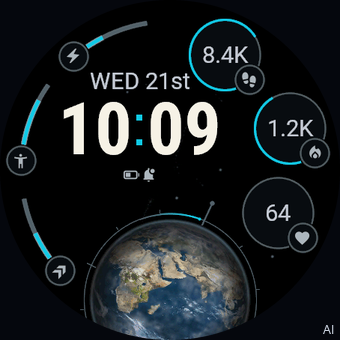
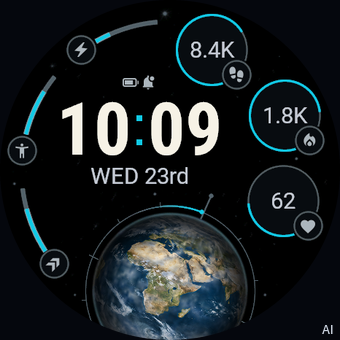
chore: updates texts

diff --git a/hardware-requirements.md b/hardware-requirements.md
@@ -156,7 +156,7 @@ The watch face follows the language set on the watch. Where a watch's own fonts 
 
 Every other watch shows every language in full.
 
-- **Chinese (Simplified), Chinese (Traditional), Japanese and Korean:** on Descent™ G2, Instinct® 3 AMOLED 45mm these languages have only pixelated (not smoothed) fonts on the watch. The face shows English there, but the watch still draws it in those fonts - as it draws its own screens - so the text stays pixelated while the watch is set to one of them.
+- **Chinese (Simplified), Chinese (Traditional), Japanese and Korean:** on Descent™ G2, Instinct® 3 AMOLED 45mm these languages have only pixelated (not smoothed) fonts on the watch. The face shows English there and smooths its text itself: it draws it in the watch's own font at twice the size and scales it down. The watch's own screens and the face's settings menu stay pixelated while the watch is set to one of them.
 - **Thai, settings menu:** on Approach® S50, Approach® S70 42mm, Approach® S70 47mm, D2™ Mach 1, Descent™ G2, Descent™ Mk3 43mm / Mk3i 43mm, Descent™ Mk3i 51mm, epix™ (Gen 2) / quatix® 7 Sapphire, epix™ Pro (Gen 2) 42mm, epix™ Pro (Gen 2) 47mm / quatix® 7 Pro, epix™ Pro (Gen 2) 51mm / D2™ Mach 1 Pro / tactix® 7 – AMOLED Edition, Forerunner® 265, Forerunner® 965, Instinct® 3 AMOLED 45mm, Instinct® 3 AMOLED 50mm, vívoactive® 5 the settings menu on the watch is drawn in the watch's own small Thai system font, as in every Connect IQ app. The watch face itself sets its Thai text in a larger font.
 - **Thai, not checked:** on Approach® S50, Descent™ G2, Instinct® 3 AMOLED 45mm, Instinct® 3 AMOLED 50mm, vívoactive® 5 the face's Thai text uses a system font of the watch that the Connect IQ simulator does not contain, so it could not be checked on screen before release.
 
